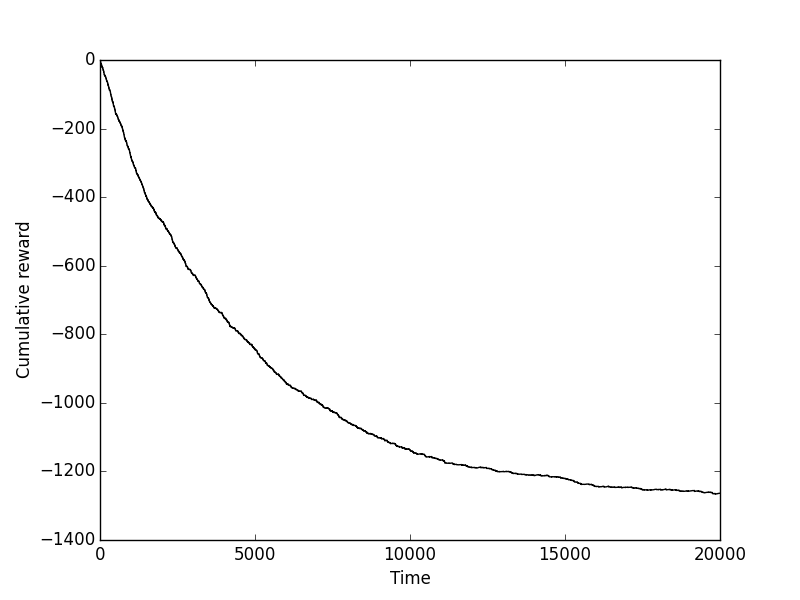
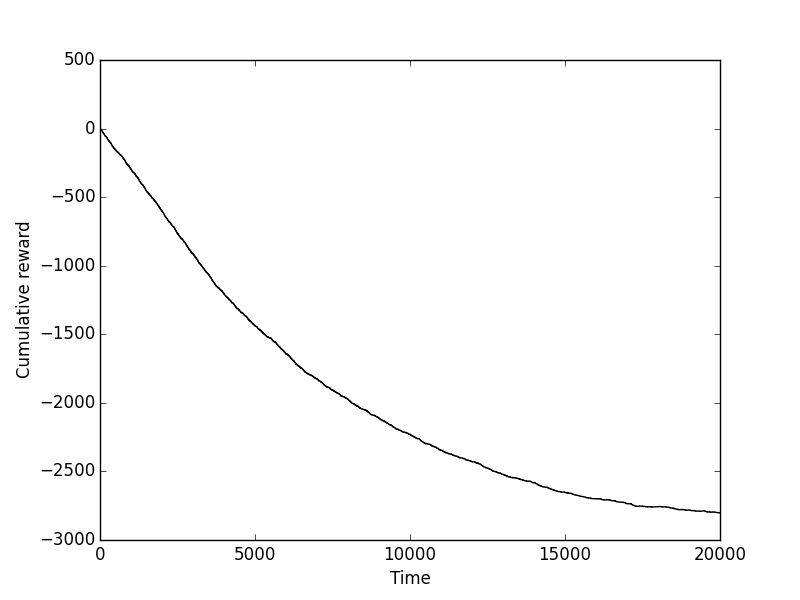
clipping update

diff --git a/test_probabilistic_categorization_supervised.py b/test_probabilistic_categorization_supervised.py
@@ -7,25 +7,27 @@ from analysis import Analysis
 ###########
 # Parameter specification
 
-train_iter = 1*10**4 # number of training iterations
+train_iter = 2*10**4 # number of training iterations
 test_iter = 1*10**3 # number of test iterations
+
+nhidden = 5
 
 ###########
 # Environment specification
 
 # note that nsteps determines length of a trial
 # must be sufficient for evidence integration
-task = tasks.ProbabilisticCategorizationTask(nsteps=5)
+task = tasks.ProbabilisticCategorizationTask(nsteps=6)
 
 ###########
 # Model specification
 
-model = models.RNN_Elman(task.ninput, 5, task.noutput)
+model = models.RNN_Elman(task.ninput, nhidden, task.noutput)
 
 ##########
 # Agent specification
 
-agent = agents.SupervisedAgent(model)
+agent = agents.SupervisedAgent(model, clipping=5)
 
 ###########
 # Train agent on an environment

diff --git a/test_probabilistic_categorization.py b/test_probabilistic_categorization.py
@@ -7,8 +7,10 @@ from analysis import Analysis
 ###########
 # Parameter specification
 
-train_iter = 2*10**4 # number of training iterations
-test_iter = 1*10**3 # number of test iterations
+train_iter = 2*10**4  # number of training iterations
+test_iter = 1*10**3  # number of test iterations
+
+nhidden = 5  # number of hidden units
 
 ###########
 # Environment specification
@@ -18,12 +20,13 @@ task = tasks.ProbabilisticCategorizationTask()
 ###########
 # Model specification
 
-model = models.RNN_Elman(task.ninput, 5, task.noutput)
+model = models.RNN_Elman(task.ninput, nhidden, task.noutput)
 
 ##########
 # Agent specification
 
-agent = agents.AACAgent(model,clipping=1)
+agent = agents.AACAgent(model,clipping=5)
+
 
 ###########
 # Train agent on an environment

diff --git a/agents.py b/agents.py
@@ -78,6 +78,11 @@ class Agent(object):
         if self.clipping:
             self.optimizer.add_hook(chainer.optimizer.GradientClipping(self.clipping))
 
+        # add gradient noise
+        self.grad_noise = kwargs.get('grad_noise', None)
+        if self.grad_noise:
+            self.optimizer.add_hook(chainer.optimizer.GradientNoise(self.grad_noise))
+
     def act(self, obs):
         """
         :param obs: observation
